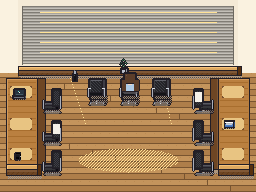
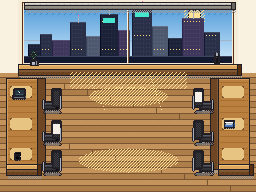
Open the Hawaii window onto a pixel skyline and drop the middle chairs.
Blinds roll up so the room looks out on blue sky and towers. Keep the
two vertical desks at six seats; the window bay stays empty sunlight.

diff --git a/public/index.html b/public/index.html
@@ -162,7 +162,7 @@
       </section>
       <section>
         <h2>保留场景 · 11</h2>
-        <p class="note">胡同（就两排桌子：远墙四座 + 再一排工位）/ 电梯间 / 夏威夷（左竖桌3椅 · 窗前3椅 · 右竖桌3椅）/ 泡泡玛特 / 厕所 / 普通工位 / 会议室 / 演唱会 / 咖啡店 / 健身房 / 米线店。</p>
+        <p class="note">胡同（就两排桌子：远墙四座 + 再一排工位）/ 电梯间 / 夏威夷（开窗见蓝天高楼 · 左3椅 · 右3椅 · 约六座）/ 泡泡玛特 / 厕所 / 普通工位 / 会议室 / 演唱会 / 咖啡店 / 健身房 / 米线店。</p>
         <div class="grid" id="rooms"></div>
       </section>
       <section>
@@ -215,7 +215,7 @@
         why:"米黄石材、开门、雕塑台座、屏与按钮。" },
       { id:"hawaii", title:"夏威夷", src:"assets/scenes/hawaii/scene_hawaii.png",
         line:"窗边这档先开。", y:148, t:"09:40", action:"open_laptop",
-        why:"朝窗：左竖桌+3椅，窗前3椅，右竖桌+3椅。约九座。暖木+奶油+日光。" },
+        why:"开窗可见蓝天高楼。左竖桌内侧 3 椅，右竖桌旁 3 椅，约六座。窗前不摆椅。" },
       { id:"popmart", title:"泡泡玛特店", src:"assets/scenes/popmart/scene_popmart.png",
         line:"就拆一个。", y:146, t:"10:40", action:"unbox",
         why:"细格盲盒墙，柜台留空。" },

diff --git a/scripts/generate_rooms.py b/scripts/generate_rooms.py
@@ -1,7 +1,7 @@
 #!/usr/bin/env python3
 """11 Laura-named scenes — 2.5D refined pixel, 256×192, empty desk pads.
 
-v3: hawaii 9-seat vertical desks; hutong two desk rows + 4 wall seats;
+v3: hawaii open window + 6 seats; hutong two desk rows + 4 wall seats;
 concert / cafe / gym / mixian added. Same 1px ink + wall-FACE language.
 """
 from __future__ import annotations
@@ -106,6 +106,16 @@ HW = {
     "pad": (232, 196, 130, 255),
     "sun": (255, 226, 150, 255),
     "jacket": (244, 240, 232, 255),
+    "sky": (126, 192, 236, 255),
+    "sky2": (78, 154, 216, 255),
+    "sky3": (206, 232, 252, 255),
+    "bldg": (42, 48, 72, 255),
+    "bldg2": (28, 34, 56, 255),
+    "bldg3": (64, 56, 92, 255),
+    "bldg4": (78, 88, 110, 255),
+    "lit": (255, 214, 130, 255),
+    "neon_c": (70, 230, 206, 255),
+    "neon_p": (255, 96, 168, 255),
 }
 CN = {
     "floor": (36, 28, 44, 255),
@@ -609,35 +619,94 @@ def scene_elevator() -> Image.Image:
 
 
 # ===========================================================================
-# 3. 夏威夷 — 朝窗：左竖桌+3椅 / 窗前3椅 / 右竖桌+3椅
+# 3. 夏威夷 — 开窗：左竖桌+3椅 / 右竖桌+3椅 / 窗外蓝天高楼
 # ===========================================================================
+def _hawaii_skyline(d, x0, y0, x1, y1):
+    """Pixel cyber skyline — blue sky + towers, not a photo."""
+    # sky wash, lighter at the horizon
+    for y in range(y0, y1 + 1):
+        t = (y - y0) / max(1, y1 - y0)
+        c = mix(HW["sky2"], HW["sky3"], t)
+        hline(d, x0, x1, y, c)
+    dither(d, x0, y0, x1, y0 + 10, shade(HW["sky2"], -16), 6)
+    # sun
+    box1(d, 188, y0 + 6, 200, y0 + 16, HW["sun"])
+    dither(d, 184, y0 + 4, 204, y0 + 18, HW["sun"], 3)
+    # far haze band
+    hline(d, x0, x1, y1 - 22, mix(HW["sky3"], HW["bldg4"], 0.35))
+    # building slabs (x, top, w, face)
+    towers = (
+        (x0 + 4, y1 - 18, 14, HW["bldg2"]),
+        (x0 + 16, y1 - 28, 12, HW["bldg"]),
+        (x0 + 28, y1 - 22, 18, HW["bldg3"]),
+        (x0 + 46, y1 - 40, 16, HW["bldg"]),
+        (x0 + 62, y1 - 26, 14, HW["bldg4"]),
+        (x0 + 76, y1 - 48, 18, HW["bldg2"]),
+        (x0 + 94, y1 - 32, 12, HW["bldg3"]),
+        (x0 + 108, y1 - 54, 20, HW["bldg"]),
+        (x0 + 128, y1 - 36, 16, HW["bldg4"]),
+        (x0 + 144, y1 - 24, 14, HW["bldg2"]),
+        (x0 + 158, y1 - 44, 22, HW["bldg3"]),
+        (x0 + 180, y1 - 30, 16, HW["bldg"]),
+        (x0 + 196, y1 - 20, 12, HW["bldg4"]),
+    )
+    for bx, top, bw, face in towers:
+        if bx + bw > x1:
+            continue
+        rect(d, [bx, top, bx + bw - 1, y1], face)
+        vline(d, bx, top, y1, shade(face, -22))
+        hline(d, bx, bx + bw - 1, top, shade(face, 24))
+        # window grid
+        for wy in range(top + 3, y1 - 2, 4):
+            for wx in range(bx + 2, bx + bw - 2, 3):
+                on = ((wx * 7 + wy * 3) % 7) == 0
+                d.point((wx, wy), fill=HW["lit"] if on else shade(face, 18))
+        # antenna / crown on the tall ones
+        if y1 - top >= 40:
+            vline(d, bx + bw // 2, top - 6, top, PAL["metal"])
+            d.point((bx + bw // 2, top - 7), fill=HW["neon_p"])
+        if y1 - top >= 46:
+            rect(d, [bx + 3, top + 4, bx + bw - 4, top + 8], HW["neon_c"])
+    # nearer dark plinth so the city sits on a ground line
+    rect(d, [x0, y1 - 6, x1, y1], shade(HW["bldg2"], -10))
+    hline(d, x0, x1, y1 - 6, shade(HW["bldg"], 20))
+
+
 def scene_hawaii() -> Image.Image:
     room = new(W, H, HW["floor"])
     d = ImageDraw.Draw(room)
     wood_planks(d, 0, 72, W - 1, H - 1, HW["floor"], HW["floor2"], HW["gap"], 6)
     light_pool(d, 128, 160, 50, 12, HW["sun"], 3)
+    light_pool(d, 128, 96, 40, 10, HW["sun"], 3)
 
-    # cream side walls + tall blinds dead ahead
+    # cream side walls; OPEN window (blinds rolled up), skyline visible
     rect(d, [0, 0, 18, 72], HW["cream"])
     rect(d, [238, 0, W - 1, 72], HW["cream"])
     rect(d, [18, 0, 237, 68], HW["wall"])
-    for y in range(6, 64):
-        c = HW["blind_d"] if y % 3 == 0 else (HW["blind"] if y % 3 == 1 else HW["blind_hi"])
-        hline(d, 22, 233, y, c)
-    for y in range(12, 62, 10):
-        hline(d, 40, 216, y, HW["sun"])
-    vline(d, 22, 6, 64, shade(HW["blind_d"], -20))
-    vline(d, 233, 6, 64, shade(HW["blind_d"], -20))
-    prism(d, 18, 66, 220, 5, 5, HW["desk_hi"], HW["desk_e"])
-    for k in range(0, 48, 3):
-        d.point((70 + k // 3, 78 + k), fill=HW["sun"])
-        d.point((160 + k // 4, 78 + k), fill=HW["sun"])
+    _hawaii_skyline(d, 24, 4, 231, 62)
+    # frame + mullions (glass is open — no pulled-down blinds)
+    vline(d, 22, 2, 64, shade(HW["desk_e"], -20))
+    vline(d, 233, 2, 64, shade(HW["desk_e"], -20))
+    hline(d, 22, 233, 2, shade(HW["desk_e"], -20))
+    vline(d, 127, 4, 62, mix(HW["cream"], (255, 255, 255, 255), 0.35))
+    vline(d, 128, 4, 62, shade(HW["desk_e"], 10))
+    # rolled-up blinds at the head — window is open
+    prism(d, 24, 2, 208, 4, 4, HW["blind_hi"], HW["blind_d"])
+    for x in range(28, 228, 6):
+        d.point((x, 4), fill=HW["blind"])
+    # sill + empty sunlit floor (no middle chairs)
+    prism(d, 18, 64, 220, 6, 6, HW["desk_hi"], HW["desk_e"])
+    dither(d, 70, 72, 186, 88, HW["sun"], 4)
+    for k in range(0, 36, 3):
+        d.point((88 + k // 2, 76 + k), fill=HW["sun"])
+        d.point((150 + k // 3, 76 + k), fill=HW["sun"])
+    blit(room, prop_plant(), 28, 50)
+    blit(room, prop_bottle(), 214, 52)
 
     def wood_desk(x, y, w, h, lip):
         prism(d, x, y, w, h, 8, HW["desk"], HW["desk_e"], lip=lip)
         for gy in range(y + 4, y + h - 2, 6):
             hline(d, x + 2, x + w - 3, gy, shade(HW["desk"], -18))
-        # near-end cap so it reads as a table, not a wall
         prism(d, x, y + h - 6, w, 6, 6, HW["desk_hi"], HW["desk_e"])
 
     # LEFT vertical desk; chairs on its RIGHT (into the room)
@@ -657,13 +726,6 @@ def scene_hawaii() -> Image.Image:
         if i == 1:
             blit(room, prop_notebook(), 224, yy + 2)
         blit(room, chair_east(jacket=(i == 0)), 192, yy + 2)
-
-    # 3 chairs in front of the blinds (middle column)
-    for i, xx in enumerate((86, 118, 150)):
-        blit(room, chair_north(), xx, 78)
-    blit(room, prop_plant(), 118, 58)
-    blit(room, prop_bottle(), 72, 70)
-    blit(room, seated_facing_wall("cast_06"), 120, 72)
     return room
 
 
@@ -1070,10 +1132,10 @@ SCENES = [
          beat_t="09:12", action="wait_lift",
          why="石材块墙、白石地、中轴雕塑、右侧门拉开见轿厢。人物是 cast。"),
     dict(id="hawaii", title="夏威夷",
-         blurb="朝窗：左竖桌+3椅 · 窗前3椅 · 右竖桌+3椅 · 约九座",
+         blurb="开窗：左竖桌+3椅 · 右竖桌+3椅 · 约六座 · 窗外蓝天高楼",
          fn=scene_hawaii, walk_y=148, line="窗边这档先开。",
          beat_t="09:40", action="open_laptop",
-         why="玩家朝落地卷帘看。左侧竖向长桌，椅子在桌右侧朝房间内排 3 把；窗前中间再 3 把；右侧竖向长桌旁再 3 把。暖木地板、奶油墙、暖日光。桌面空 pad。hawaii-ref 只取工位气氛，不描人物。"),
+         why="窗户打开，卷帘卷在顶上，能看见蓝天和高楼天际线（精致像素，不是照片）。左侧竖向长桌内侧 3 椅，右侧竖向长桌旁 3 椅，合计约六座。窗前只留窗台和日光，不再摆中间三椅。"),
     dict(id="popmart", title="泡泡玛特店",
          blurb="2.5D 盒架 · 柜台三空位",
          fn=scene_popmart, walk_y=146, line="就拆一个。",

diff --git a/design/art-brief.md b/design/art-brief.md
@@ -25,7 +25,7 @@
 |------|------|----|--------|
 | 胡同工位区 | 浅灰地 | 白墙顶灯 | 就两排桌子：远墙四座朝墙 + 再一排平行工位。保留 ttc / 镜框。大块空 pad。不描合影人物 |
 | 电梯间 | 白石大理石 | 筒灯暖白 | 米黄石材、开门、雕塑、屏与按钮 |
-| 夏威夷 | 暖木 | 卷帘缝日光 | 朝窗：左竖桌+右侧 3 椅，窗前 3 椅，右竖桌+旁 3 椅。约九座。奶油墙。hawaii-ref 只取气氛 |
+| 夏威夷 | 暖木 | 开窗日光 | 开窗可见蓝天高楼（像素天际线）。左竖桌内侧 3 椅，右竖桌旁 3 椅，约六座。窗前不摆椅。奶油墙。 |
 | 泡泡玛特 | 粉×薄荷细格 | 粉/青灯带 | 柜台不要堆死 |
 | 厕所 | pastel 瓷 | 暖白 | 四隔间 + 两水池 |
 | 普通工位 | 冷灰地毯砖 | 窗光 | 岛式桌，与胡同长桌区分 |

diff --git a/README.md b/README.md
@@ -48,7 +48,7 @@ npx --yes serve public -p 4173
 |----|------|------|------|
 | `hutong` | 胡同工位区 | 就两排桌子：远墙四座朝墙 + 再一排平行工位 | `public/assets/scenes/hutong/` |
 | `elevator` | 电梯间 | 米黄石材、开门、雕塑台座、屏与按钮 | `public/assets/scenes/elevator/` |
-| `hawaii` | 夏威夷 | 朝窗：左竖桌 3 椅 · 窗前 3 椅 · 右竖桌 3 椅 | `public/assets/scenes/hawaii/` |
+| `hawaii` | 夏威夷 | 开窗见蓝天高楼 · 左竖桌 3 椅 · 右竖桌 3 椅 · 约六座 | `public/assets/scenes/hawaii/` |
 | `popmart` | 泡泡玛特店 | 细格盲盒墙，柜台留空 | `public/assets/scenes/popmart/` |
 | `restroom` | 厕所 | 四隔间 + 两水池 | `public/assets/scenes/restroom/` |
 | `office` | 普通工位 | 岛式桌，空垫 | `public/assets/scenes/office/` |

diff --git a/design/scenes/hawaii.md b/design/scenes/hawaii.md
@@ -2,9 +2,9 @@
 
 > 精致像素 · 256×192 · 2.5D · 桌面留物位
 
-朝窗：左竖桌+3椅 · 窗前3椅 · 右竖桌+3椅 · 约九座
+开窗：左竖桌+3椅 · 右竖桌+3椅 · 约六座 · 窗外蓝天高楼
 
-玩家朝落地卷帘看。左侧竖向长桌，椅子在桌右侧朝房间内排 3 把；窗前中间再 3 把；右侧竖向长桌旁再 3 把。暖木地板、奶油墙、暖日光。桌面空 pad。hawaii-ref 只取工位气氛，不描人物。
+窗户打开，卷帘卷在顶上，能看见蓝天和高楼天际线（精致像素，不是照片）。左侧竖向长桌内侧 3 椅，右侧竖向长桌旁 3 椅，合计约六座。窗前只留窗台和日光，不再摆中间三椅。
 
 - `public/assets/scenes/hawaii/scene_hawaii.png`
 - `public/preview/zoomed/hawaii.png`

diff --git a/design/day-in-life.md b/design/day-in-life.md
@@ -32,7 +32,7 @@
 
 ### 3 · 09:40 · 夏威夷
 - `open_laptop` 「窗边这档先开。」
-- 玩家朝落地卷帘看。左侧竖向长桌，椅子在桌右侧朝房间内排 3 把；窗前中间再 3 把；右侧竖向长桌旁再 3 把。暖木地板、奶油墙、暖日光。桌面空 pad。hawaii-ref 只取工位气氛，不描人物。
+- 窗户打开，卷帘卷在顶上，能看见蓝天和高楼天际线（精致像素，不是照片）。左侧竖向长桌内侧 3 椅，右侧竖向长桌旁 3 椅，合计约六座。窗前只留窗台和日光，不再摆中间三椅。
 
 ### 4 · 10:40 · 泡泡玛特店
 - `unbox` 「就拆一个。」
